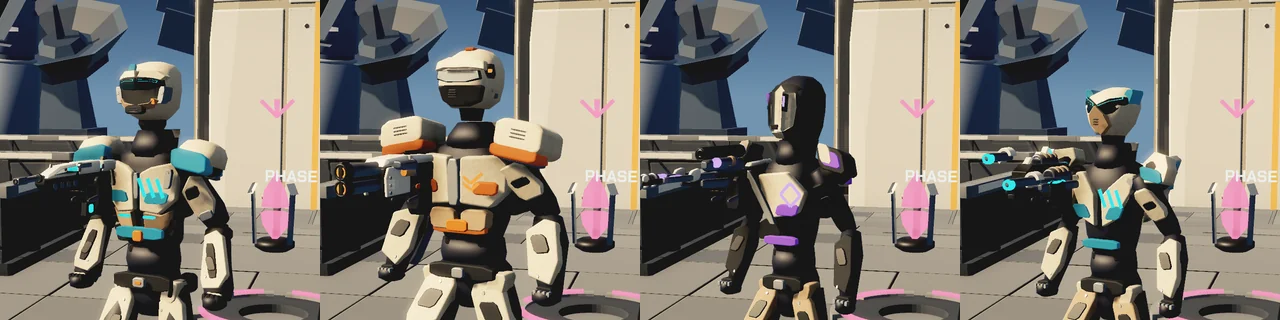
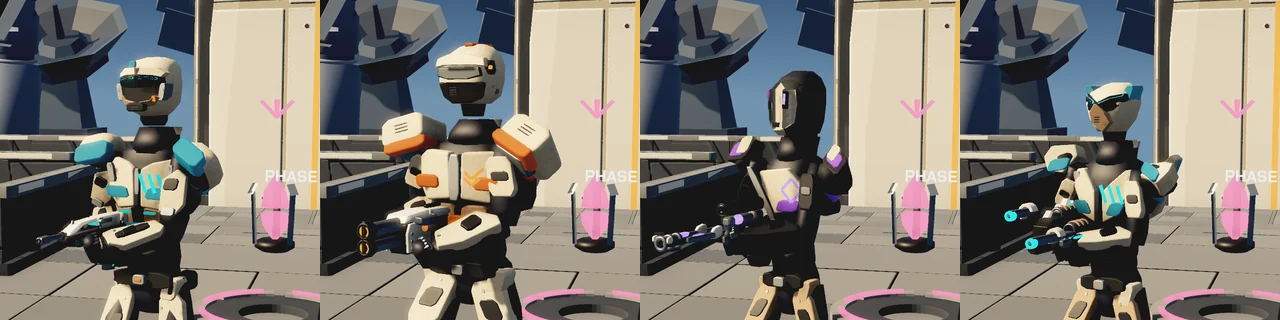
Close the TRIAS polish list: Meridian floor vein, HUD playtest, pilot grips, Kordilera findings
- Meridian's floor shows one honed agate vein surfacing in open ground: lens-shaped cuts along
  a single fault axis with a graphite rim, clipped away from cover; UVs follow the axis so the
  banding continues between windows. Flush inlay only.
- -trias-autopilot makes the playtest pilot sprint, weave, jump and dodge through the normal
  input path, putting movement and Momentum Chain in native captures and timing runs.
- Art-review pilots are the game's Avatar built from a player row, so they hold their
  signature weapon with the in-match IK grip (PlaceHands); website portraits refreshed.
- Kordilera: low bedrock slabs, shader erosion gullies and cliff-rim ribs were tried and
  rejected (invisible on such gentle hills or never seen); the hill shape is the authoritative
  heightfield, so roughening it is a gameplay decision. Recorded with the results in
  ART-DIRECTION.md and the playtest and level-design skills.

diff --git a/unity-vfx-preview/Assets/Scripts/Native/ArtReviewProbe.cs b/unity-vfx-preview/Assets/Scripts/Native/ArtReviewProbe.cs
@@ -100,6 +100,8 @@ namespace Trias.Native
             new Shot { Key = "vanta-works", Arena = "foundry", Weapon = "scatter", Eye = P(5, 1.58f, -22), Aim = P(0, 7, 30) },
             new Shot { Key = "vanta-terrace", Arena = "foundry", Weapon = "pulse", Eye = P(1.5f, 1.58f, -9.5f), Aim = P(-1.5f, .8f, -2) },
             new Shot { Key = "meridian-terrace", Arena = "basin", Weapon = "arc", Eye = P(-3, 1.58f, -15), Aim = P(0, .9f, -6.4f) },
+            // Along Meridian's floor vein from the south-west towards the central machine.
+            new Shot { Key = "meridian-vein", Arena = "basin", Weapon = "lance", Eye = P(-30, 1.58f, -21), Aim = P(-14, -.8f, -11) },
             new Shot { Key = "meridian-approach", Arena = "basin", Weapon = "lance", Eye = P(-8.8f, 1.58f, -37.4f), Aim = P(-5.3f, 1.4f, -31) },
             EventShot("fx-elimination", .14f, (fx, w) => fx.Elimination(EventSpot, w.TeamLight[1].color)),
             EventShot("fx-elimination-mid", .3f, (fx, w) => fx.Elimination(EventSpot, w.TeamLight[1].color)),
@@ -137,6 +139,10 @@ namespace Trias.Native
                 Eye = w => w.Flags[0].position + new Vector3(1.3f, 1.4f, -1.6f), Aim = w => w.Flags[0].position + Vector3.up * 1.05f },
             new Shot { Key = "obj-flag", Arena = "island", Mode = "ctf", Weapon = "pulse", Fov = 60,
                 Eye = w => w.Flags[0].position + new Vector3(2.2f, 1.58f, -2.2f), Aim = w => w.Flags[0].position + Vector3.up * .9f },
+            // Kordilera from a raised edge position across the hills, and along the cliff rim.
+            new Shot { Key = "kordilera-hills", Arena = "island", Mode = "ctf", Weaponless = true, Fov = 62,
+                Eye = w => new Vector3(-w.Spec.edgeRadius * .62f, w.Height(-w.Spec.edgeRadius * .62f, -w.Spec.edgeRadius * .3f) + 2.2f, -w.Spec.edgeRadius * .3f),
+                Aim = w => new Vector3(w.Spec.edgeRadius * .3f, w.Height(w.Spec.edgeRadius * .3f, w.Spec.edgeRadius * .2f) + 1, w.Spec.edgeRadius * .2f) },
             new Shot { Key = "kordilera-crossing", Arena = "island", Mode = "ctf", Eye = G(27.5f, 11.3f, 1.58f), Aim = G(23.4f, 6.6f, .68f) },
         };
 
@@ -243,22 +249,29 @@ namespace Trias.Native
                         shot.Extras(world, home);
                         props.Add(home.gameObject);
                     }
+                    // Review pilots are the game's own Avatar, built from a player row like the hangar's, so they
+                    // carry their weapon with the same IK grip (PlaceHands) as in a match.
+                    var avatars = new List<Avatar>();
                     foreach (var pilot in shot.Pilots)
                     {
-                        var root = TriasWorld.Group(world.Actors, "Review pilot " + pilot.Kit);
-                        root.SetPositionAndRotation(pilot.At(world), Quaternion.Euler(0, pilot.Yaw, 0));
-                        world.Kit.Pilot(root, pilot.Kit, world.TeamLight[pilot.Team], pilot.Team, pilot.Kit == "vector" || pilot.Kit == "bulwark", out var rig);
-                        var gun = TriasWorld.Group(root, "Pulse", new Vector3(.17f, 1.36f, .34f));
-                        gun.localScale = Vector3.one * .9f;
-                        TriasModels.Gun(world, gun, shot.PilotWeapon ?? "pulse", world.TeamLight[pilot.Team]);
-                        if (rig != null && rig["idle"] != null) { var s = rig["idle"]; s.enabled = true; s.weight = 1; s.time = .4f; rig.Sample(); s.enabled = false; }
-                        props.Add(root.gameObject);
+                        var at = pilot.At(world);
+                        string weapon = shot.PilotWeapon ?? Catalog.Find(catalog.pilots, pilot.Kit)?.weapon ?? "pulse";
+                        string frame = pilot.Kit == "vector" || pilot.Kit == "bulwark" ? "male" : "female";
+                        var row = WireValue.Parse(string.Format(CultureInfo.InvariantCulture,
+                            "[\"review\",\"{0}\",2,{1},0,\"{0}\",150,0,0,\"{2}\",[],0,0,1,0,-1,-1,0,{3},{4},{5},0,0,0,{6},0,0,0,0,0,0,null,\"{7}\"]",
+                            pilot.Kit, pilot.Team, weapon, at.x, at.y, at.z, pilot.Yaw * Mathf.Deg2Rad - Mathf.PI, frame));
+                        var avatar = new Avatar(world, "review-" + pilot.Kit, row, world.TeamLight[pilot.Team]);
+                        avatar.Accept(row, Time.unscaledTime);
+                        avatars.Add(avatar);
+                        props.Add(avatar.Root.gameObject);
                     }
                     for (int frame = 0; frame < 24; frame++)
                     {
                         world.Animate(40 + frame / 60f, 1, 0, eye, 1, 1, 40 + frame / 60f, 719);
+                        foreach (var avatar in avatars) avatar.Tick(Time.unscaledTime);
                         yield return null;
                     }
+                    foreach (var avatar in avatars) avatar.PlaceHands();
                     if (shot.Event != null)
                     {
                         if (Effects == null) log.Add($"{shot.Key}: event skipped (no effects)");

diff --git a/unity-vfx-preview/Assets/Scripts/Native/TriasWorld.MeridianSection.cs b/unity-vfx-preview/Assets/Scripts/Native/TriasWorld.MeridianSection.cs
@@ -1,3 +1,4 @@
+using System;
 using System.Collections.Generic;
 using UnityEngine;
 using UnityEngine.Rendering;
@@ -15,6 +16,77 @@ namespace Trias.Native
             meridianSection.SetFloat("_Glossiness", .49f);
             meridianSection.SetFloat("_Metallic", .08f);
             return meridianSection;
+        }
+
+        // Meridian's floor shows one polished agate vein surfacing in open ground: lens-shaped cuts laid
+        // along a single fault axis through the basin, each 2.6-4.4 m long, offset to alternate sides of the
+        // axis. UVs follow position along the axis, so the banding reads as the same vein between windows.
+        // Only where the whole lens lies on clear base floor (no cover, no step); 2 cm above the collider.
+        void BuildMeridianFloorSeam()
+        {
+            if (Spec.id != "basin") return;
+            Physics.SyncTransforms();
+            Vector2 axis = new Vector2(.78f, .63f).normalized, across = new Vector2(-axis.y, axis.x);
+            var points = new List<Vector3>();
+            var uv = new List<Vector2>();
+            var faces = new List<int>();
+            int windows = 0;
+            bool Floor(Vector2 at, out float y)
+            {
+                y = 0;
+                if (!Physics.Raycast(new Vector3(at.x, 6, at.y), Vector3.down, out var hit, 9, TerrainMask, QueryTriggerInteraction.Ignore)
+                    || hit.normal.y < .97f || Mathf.Abs(hit.point.y) > .2f) return false;
+                y = hit.point.y;
+                return !Array.Exists(Spec.cover, box => box.Overlaps(at.x, at.y, .5f));
+            }
+            for (float t = -48; t <= 48 && windows < 12; t += 3.1f)
+            {
+                int k = Mathf.RoundToInt(t * 10);
+                float length = 2.6f + Mathf.Abs(k * 7 % 10) * .18f, width = 1.0f + Mathf.Abs(k * 3 % 7) * .09f;
+                float lateral = (Mathf.Abs(k) % 2 == 0 ? 1 : -1) * (.6f + Mathf.Abs(k * 11 % 5) * .25f);
+                Vector2 centre = axis * t + across * lateral;
+                bool clear = Floor(centre, out float y);
+                for (int c = 0; c < 4 && clear; c++)
+                    clear = Floor(centre + axis * ((c < 2 ? -.5f : .5f) * length) + across * ((c % 2 == 0 ? -.5f : .5f) * width), out _);
+                if (!clear) continue;
+                windows++;
+                int start = points.Count;
+                const int steps = 8;
+                for (int i = 0; i <= steps; i++)
+                {
+                    float f = (float)i / steps, half = Mathf.Sin(f * Mathf.PI) * width * .5f + .02f;
+                    Vector2 at = centre + axis * ((f - .5f) * length);
+                    for (int side = -1; side <= 1; side += 2)
+                    {
+                        Vector2 edge = at + across * (side * half);
+                        points.Add(new Vector3(edge.x, y + .02f, edge.y));
+                        // Banding runs across the vein, keyed to the position along the fault axis.
+                        uv.Add(new Vector2(Vector2.Dot(edge, axis) * .06f, .5f + Vector2.Dot(edge, across) * .18f));
+                    }
+                    if (i == 0) continue;
+                    int a = start + (i - 1) * 2, b = start + i * 2;
+                    // Clockwise from above, so the inlay faces up in Unity.
+                    faces.Add(a); faces.Add(b + 1); faces.Add(b);
+                    faces.Add(a); faces.Add(a + 1); faces.Add(b + 1);
+                }
+            }
+            if (faces.Count == 0) return;
+            // A floor cut is honed, not polished: lower gloss and a deeper tint keep it from mirroring the
+            // pale sky at grazing angles, and a graphite rim (built first, slightly wider) defines its edge.
+            var honed = MaterialAt("#b49a86", false, "meridian-agate");
+            honed.SetFloat("_Glossiness", .18f);
+            honed.SetFloat("_Metallic", 0);
+            var rim = new List<Vector3>(points.Count);
+            for (int i = 0; i < points.Count; i += 2)
+            {
+                Vector3 a = points[i], b = points[i + 1], mid = (a + b) * .5f, spread = (b - a) * .5f;
+                float grow = spread.magnitude + .07f;
+                spread = spread.sqrMagnitude > 1e-6f ? spread.normalized * grow : spread;
+                rim.Add(mid - spread - Vector3.up * .003f);
+                rim.Add(mid + spread - Vector3.up * .003f);
+            }
+            MeshAt("Meridian floor vein rim", rim, faces, uv, MapSurface("#2b2a31", "fractured-stone", 0, .2f));
+            MeshAt("Meridian floor vein", points, faces, uv, honed);
         }
 
         // Four pages from one geological section. UVs refer to its position before

diff --git a/unity-vfx-preview/Assets/Scripts/Native/TriasClient.Diagnostics.cs b/unity-vfx-preview/Assets/Scripts/Native/TriasClient.Diagnostics.cs
@@ -13,6 +13,8 @@ namespace Trias.Native
     //   -trias-quit-after <s>     quits the player after that many seconds
     //   -trias-uncapped           disables vsync and the frame cap so the log shows real frame cost
     //   -trias-no-capture         overrides -trias-capture (screenshots stall the main thread ~150 ms)
+    //   -trias-autopilot          while alive, sprints, weaves, turns, jumps and dodges through the normal input
+    //                             path, so movement, Momentum Chain and first-person motion are in the measured load
     // Used with tools/playtest/host-room.mjs and -trias-invite; normal play is unaffected.
     public sealed partial class TriasClient
     {
@@ -20,7 +22,8 @@ namespace Trias.Native
         float quitAfter = -1, nextFrameReport, nextCapture;
         readonly List<float> frameSamples = new(1200);
         int captureIndex, unfocusedFrames;
-        bool uncapped;
+        bool uncapped, autopilot;
+        float autopilotTurn;
         ProfilerRecorder mainThread, gcMemory;
 
         void InitDiagnostics()
@@ -34,6 +37,7 @@ namespace Trias.Native
             }
             if (Array.IndexOf(args, "-trias-uncapped") >= 0) uncapped = true;
             if (Array.IndexOf(args, "-trias-no-capture") >= 0) capturePath = null;
+            if (Array.IndexOf(args, "-trias-autopilot") >= 0) autopilot = true;
             if (capturePath != null) Directory.CreateDirectory(capturePath);
             // An unattended player is rarely the focused window; keep simulating and rendering anyway.
             if (frameLogPath != null || capturePath != null || quitAfter > 0) Application.runInBackground = true;
@@ -61,6 +65,24 @@ namespace Trias.Native
                 nextCapture = now + 8;
                 StartCoroutine(CaptureFrame(Path.Combine(capturePath, $"{world.Spec.id}-{captureIndex++:D2}.png")));
             }
+        }
+
+        // Scripted movement for unattended playtests; it uses the same command bits as the keyboard.
+        void Autopilot(ref int bits, ref float horizontal, ref float vertical)
+        {
+            if (!autopilot || own == null || own[6].Int <= 0 || state["winner"]["label"].Text != null) return;
+            float t = Time.unscaledTime;
+            vertical = 1;
+            horizontal = Mathf.Sin(t * 1.3f) * .7f;
+            bits |= 1 << 1;                                   // sprint
+            if (Mathf.Repeat(t, 2.6f) < Motor.Tick) bits |= 1 << 5;          // jump press
+            if (Mathf.Repeat(t + 1.1f, 4.3f) < Motor.Tick) bits |= 1 << 6;   // dodge
+            // Wander: a slow sweep plus a sharp turn every few seconds keeps the pilot off walls.
+            if (Mathf.Repeat(t, 3.7f) < Motor.Tick) autopilotTurn = 70 + Mathf.Repeat(t * 37, 110);
+            float turn = Mathf.MoveTowards(0, autopilotTurn, 120 * Motor.Tick);
+            autopilotTurn -= turn;
+            yaw = Mathf.Repeat(yaw + turn + Mathf.Sin(t * .7f) * .6f, 360);
+            pitch = Mathf.Lerp(pitch, 4, .1f);
         }
 
         // The Screen Capture module is not in this project, so read the finished frame back directly.

diff --git a/unity-vfx-preview/Assets/Scripts/Native/TriasClient.cs b/unity-vfx-preview/Assets/Scripts/Native/TriasClient.cs
@@ -311,9 +311,11 @@ namespace Trias.Native
                 if (Input.GetKey(KeyCode.Space)) bits |= 1 << 2;
                 if (!predictedFire && !building && Input.GetMouseButton(0)) bits |= 1 << 3;
             }
+            float horizontal = Playing ? -Input.GetAxisRaw("Horizontal") : 0, vertical = Playing ? Input.GetAxisRaw("Vertical") : 0;
+            Autopilot(ref bits, ref horizontal, ref vertical);
             var command = new Command {
-                Seq = sequence + 1, Bits = bits, Horizontal = Playing ? -Input.GetAxisRaw("Horizontal") : 0,
-                Vertical = Playing ? Input.GetAxisRaw("Vertical") : 0,
+                Seq = sequence + 1, Bits = bits, Horizontal = horizontal,
+                Vertical = vertical,
                 Yaw = Mathf.Round(WebYaw * 1000) * .001f, Pitch = Mathf.Round(WebPitch * 1000) * .001f,
                 Weapon = Playing ? requestedWeapon : null,
             };

diff --git a/unity-vfx-preview/Assets/Scripts/Native/TriasWorld.cs b/unity-vfx-preview/Assets/Scripts/Native/TriasWorld.cs
@@ -196,6 +196,7 @@ namespace Trias.Native
             }
             if (IsRelayArt) BuildRelayContacts();
             else BuildGroundContacts();
+            BuildMeridianFloorSeam();
             var gold = MaterialAt("#ffae62", true);
             launchPadParts ??= new BlenderParts("TRIAS/LaunchPad/LaunchPad");
             foreach (var pad in Spec.launchPads)

diff --git a/unity-vfx-preview/ART-DIRECTION.md b/unity-vfx-preview/ART-DIRECTION.md
@@ -298,9 +298,24 @@ Přejímka v nativní macOS verzi při 1280 × 720 ověřila všech 135 aktivní
 - **Neprokázáno:** druhý běh za sebou na M2 bez ventilátoru zpomalil až 2× (Vanta v sérii z 6 na 15 ms, Relay z 8 na 17 ms). Samostatný běh Vanty po vychladnutí byl stabilní. Nejpravděpodobněji jde o tepelné omezení, macOS ale varování nezaznamenal.
 - Nativní snímky z boje odpovídají revizním záběrům. Sonda tedy ukazuje to, co hra.
 
+**Dvanáctá vlna (Kordilera, paluba Meridianu, HUD, úchop pilotů).** Výstupy jsou v `output/beyond/` (`w-*`, `x-*`, `y-hands`) a `output/playtest5/`.
+- **Kopce Kordilery – zamítnuto:**
+  - Nízké skalní desky na svazích (vyčnívaly nejvýš 0,25 m, aby netvořily klamavý kryt) z herní vzdálenosti zanikly.
+  - Shaderové erozní rýhy se neprojevily ani natvrdo zapnuté na celé strmé ploše. Kopce jsou na to příliš mírné.
+  - Skalní žebra na útesech pod okrajem ostrova nejsou ze hry vidět.
+  - Hladkost tedy plyne přímo z tvaru autoritativní výškové mřížky. Skutečné zdrsnění by změnilo pohyb, výhledy i navigaci botů, a to je herní rozhodnutí, ne vizuální.
+- **Paluba Meridianu:** na volné podlaze vystupuje jedna achátová žíla. Jsou to čočkovité broušené výbrusy podél společné zlomové osy, s matným materiálem (lesk 0,18) a tmavým grafitovým lemem.
+  - Leštěný achát pod nízkým úhlem zrcadlil oblohu a splýval s podlahou.
+  - Úseky po souvislé trase zakrývaly kryty a byly příliš úzké.
+  - Pozor: pás vrcholů po směru cesty musí jít při pohledu shora po směru hodinových ručiček, jinak je Unity ořízne jako odvrácený.
+- **HUD v nativní hře:** `-trias-autopilot` nechá pilota při playtestu běhat, kličkovat, skákat a uskakovat normální vstupní cestou.
+  - Panel řetězce hybnosti (Surge ×2, Kinetic ×1,5, Overdrive ×2,5 s popisem akce) i ztráta zdraví jsou čitelné a nepřekrývají se s municí.
+  - Prolomení štítu se nezachytilo, protože pilot nesebral štít.
+  - Výkon s autopilotem v Relay: se vsync 16,67 ms, bez vsync medián 2–3 ms a p99 10–13 ms.
+- **Revizní piloti** jsou teď herní `Avatar` sestavený z řádku hráče jako v hangáru. Drží svou zbraň přes stejné IK (`PlaceHands`) jako v zápase, sestava i portréty. Portréty na webu jsou obnovené.
+
 **Zbývající slabiny.**
 - Přebíjení a výstřel mají společné časování. Jejich pohyb ze sedmé vlny posoudil jen člověk ve Feel Lab, ne sonda.
-- Řetěz hybnosti a rána do štítu se odehrávají ve visoru a ve zbrani z první osoby, takže sonda je nezachytí.
-- Kopce Kordilery mají tvarově hladkou geometrii (barevně už ne). Paluba Meridianu je prostá plocha. 
-- Sestava pilotů v náhledu nemá úchop zbraně (sonda nevolá `PlaceHands`).
+- Prolomení štítu ve visoru zatím žádný záběr nezachytil (při playtestu chybí sebrání štítu).
+- Kopce Kordilery mají hladký tvar autoritativní výškové mřížky; změna je herní rozhodnutí. 
 - Windows build se nespouštěl. Měření snímků proběhlo jen na Apple M2. Hráč při playtestu nehrál, takže pohyb a střelba z první osoby nebyly v nativním měření zatížené.

diff --git a/website/DESIGN.md b/website/DESIGN.md
@@ -6,6 +6,6 @@ Visual world: orbital deployment. Preserve the game menu's charcoal, warm white,
 
 Signature: layered orbital artwork with a large TRIAS wordmark; scroll brings the real battlefield and pilot lineup into view. Keep all content available without JavaScript. Scroll motion is a progressive enhancement, disabled for reduced-motion preferences and narrow screens. No scroll interception, autoplay video or mandatory animation.
 
-Assets: orbit.jpg and eclipse.jpg are existing repository artwork. pilots.webp (1280 × 320) holds four square portraits of the actual Unity pilot models (Vektor, Bašta, Přízrak, Poštolka with their signature weapons) on the Relay transfer deck, rendered by the art review (`TRIAS_ART_ONLY=portrait- tools/unity/art-review.sh`) on November 28, 2026; the CSS shows one tile per card in the gameplay catalog order. The four arena gallery images in public/assets/gameplay/ (relay-station, vanta-foundry, meridian-basin, kordilera; 1280 × 720 WebP) are HUD-free in-engine captures from fixed first-person cameras in the production arenas (art-review shots relay-transfer, vanta-works, site-meridian, kordilera-crossing, November 28, 2026). They are captioned "In-engine capture", not gameplay, because no match was being played. vanta-foundry-ground.webp remains the authentic user-supplied gameplay capture from November 27, 2026 (720 × 405, with HUD) that illustrates combat. The older moss-island.webp capture is no longer displayed. Never pass concept art off as gameplay. Raw PNG sources stay in the ignored output/beyond/site-final/.
+Assets: orbit.jpg and eclipse.jpg are existing repository artwork. pilots.webp (1280 × 320) holds four square portraits of the actual Unity pilot models (Vektor, Bašta, Přízrak, Poštolka holding their signature weapons with the in-game grip) on the Relay transfer deck, rendered by the art review (`TRIAS_ART_ONLY=portrait- tools/unity/art-review.sh`) on November 28, 2026; the CSS shows one tile per card in the gameplay catalog order. The four arena gallery images in public/assets/gameplay/ (relay-station, vanta-foundry, meridian-basin, kordilera; 1280 × 720 WebP) are HUD-free in-engine captures from fixed first-person cameras in the production arenas (art-review shots relay-transfer, vanta-works, site-meridian, kordilera-crossing, November 28, 2026). They are captioned "In-engine capture", not gameplay, because no match was being played. vanta-foundry-ground.webp remains the authentic user-supplied gameplay capture from November 27, 2026 (720 × 405, with HUD) that illustrates combat. The older moss-island.webp capture is no longer displayed. Never pass concept art off as gameplay. Raw PNG sources stay in the ignored output/beyond/site-final/.
 
 Checks: one primary action, keyboard-visible focus, honest release status and prerelease labeling, reduced motion, mobile layout, no network/build dependencies. Test at 360, 390, 768, 1280 and 1920 px and with keyboard navigation before production deployment. The static source was reviewed; Hallmark and Impeccable CLI checks and browser rendering were not available in this run.

diff --git a/unity-vfx-preview/.agents/skills/trias-playtest/SKILL.md b/unity-vfx-preview/.agents/skills/trias-playtest/SKILL.md
@@ -15,4 +15,4 @@ For the arsenal, verify primary, alternate and reload against the Game Feel Lab 
 
 Set `TRIAS_MERIDIAN_REVIEW=1` on the environment fixture to capture the shelf and two HUD-free views. Render the match camera into a temporary target for a clean image and restore its previous target before timing. Record arena load order and background editor activity when comparing runs.
 
-For unattended native play with bots, run the server (`npm start`), build the macOS player and run `tools/playtest/run.sh <TRIAS.app> <out> <arena> [mode] [seconds]`. `host-room.mjs` opens a bot room and keeps an idle host seat. The player joins with `-trias-invite` and writes frame-time percentiles, main-thread time, focus, active renderers and GC memory every 10 s (`-trias-frame-log`), plus a screenshot every 8 s (`-trias-capture`). Set `TRIAS_PLAYTEST_FLAGS=-trias-uncapped` to measure real frame cost without vsync, and `TRIAS_PLAYTEST_NO_CAPTURE=1` when timing, because each screenshot stalls the main thread for about 150 ms. A window that loses focus is throttled by macOS, so check `unfocused=0`. Run arenas in separate, cooled-down sessions: on a fanless M2 a second consecutive run slowed by up to 2×.
+For unattended native play with bots, run the server (`npm start`), build the macOS player and run `tools/playtest/run.sh <TRIAS.app> <out> <arena> [mode] [seconds]`. `host-room.mjs` opens a bot room and keeps an idle host seat. The player joins with `-trias-invite` and writes frame-time percentiles, main-thread time, focus, active renderers and GC memory every 10 s (`-trias-frame-log`), plus a screenshot every 8 s (`-trias-capture`). Set `TRIAS_PLAYTEST_FLAGS=-trias-uncapped` to measure real frame cost without vsync, and `TRIAS_PLAYTEST_NO_CAPTURE=1` when timing, because each screenshot stalls the main thread for about 150 ms. A window that loses focus is throttled by macOS, so check `unfocused=0`. Run arenas in separate, cooled-down sessions: on a fanless M2 a second consecutive run slowed by up to 2×. Add `-trias-autopilot` (in `TRIAS_PLAYTEST_FLAGS`) to make the pilot sprint, weave, jump and dodge through the normal input path. It builds Momentum Chains and puts movement in the measured load, but it does not fire or collect pickups.

diff --git a/unity-vfx-preview/.agents/skills/trias-level-design/SKILL.md b/unity-vfx-preview/.agents/skills/trias-level-design/SKILL.md
@@ -13,4 +13,4 @@ For a fitted Blender cover, compare the authored blocker with the rendered top a
 
 At the two outer Kordilera crossings, reserve the full deck width through both ends. For rotated bank hardware, project both horizontal half-extents onto the deck width axis, sample terrain height at the offset foot, and test the actual catalog cover there.
 
-Decor under a walkable slab (ribs, girders, lights) may hang at most about .18 m below the collider, and only where no floor lies within 2.4 m beneath it (`DressRelaySoffit`). Re-dress a building's faces (for example the Kordilera refuge's stone plinth, log courses and turf) rather than adding a cosmetic pitched roof over a walkable flat one. When fitting a kit mesh to cover, reject a mesh whose visible top or sides fall well inside the collider (for example `MachineExtraction` on a 1.56 m terrace, or open frames like `MachineStabilizer`).
+Decor under a walkable slab (ribs, girders, lights) may hang at most about .18 m below the collider, and only where no floor lies within 2.4 m beneath it (`DressRelaySoffit`). Re-dress a building's faces (for example the Kordilera refuge's stone plinth, log courses and turf) rather than adding a cosmetic pitched roof over a walkable flat one. When fitting a kit mesh to cover, reject a mesh whose visible top or sides fall well inside the collider (for example `MachineExtraction` on a 1.56 m terrace, or open frames like `MachineStabilizer`). Kordilera's hill shape is the authoritative heightfield. Surface treatments and low rock slabs could not make its gentle slopes read as rugged, so roughening them is a gameplay decision (movement, sightlines, bot navigation), not an art pass.
